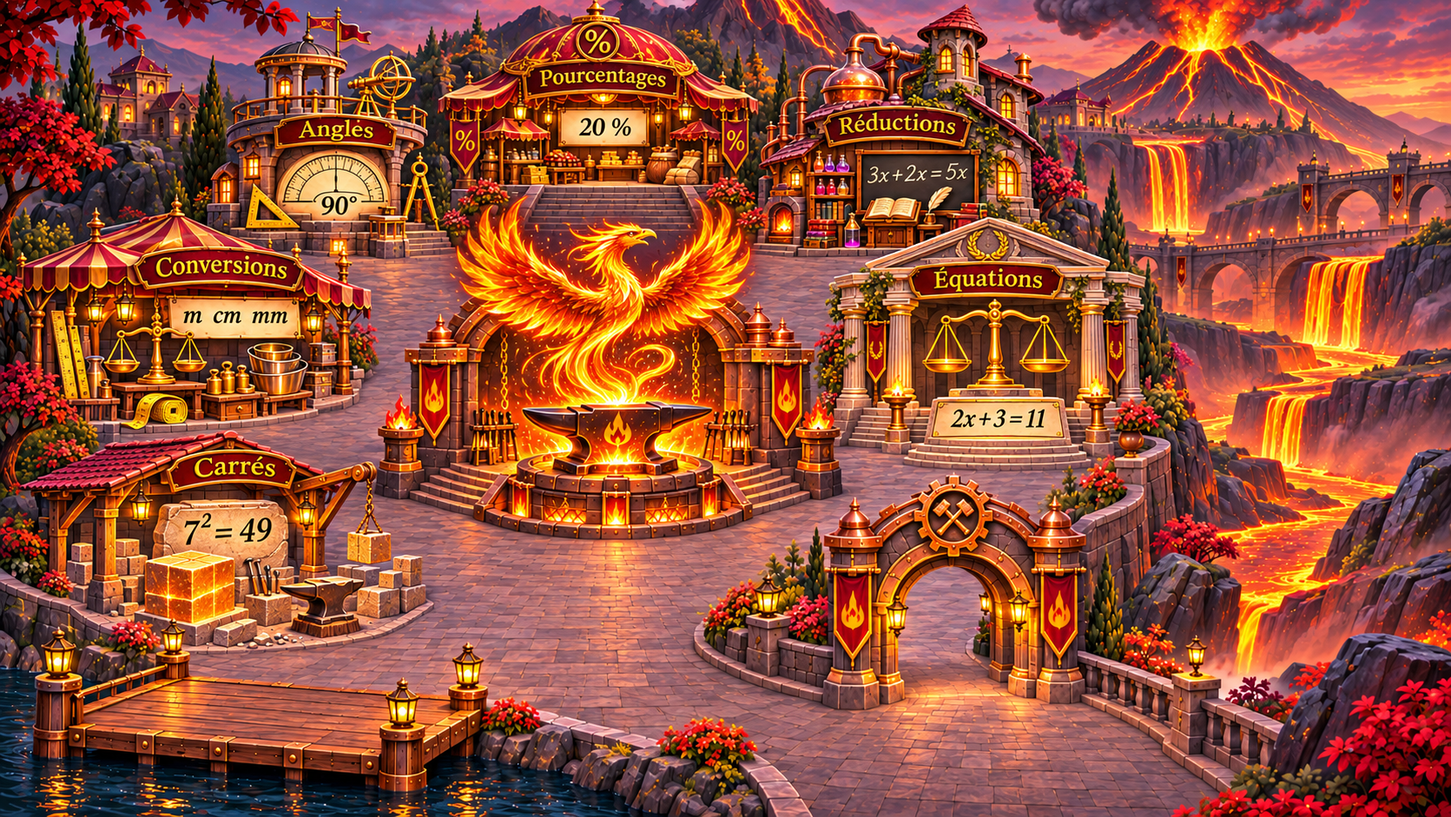
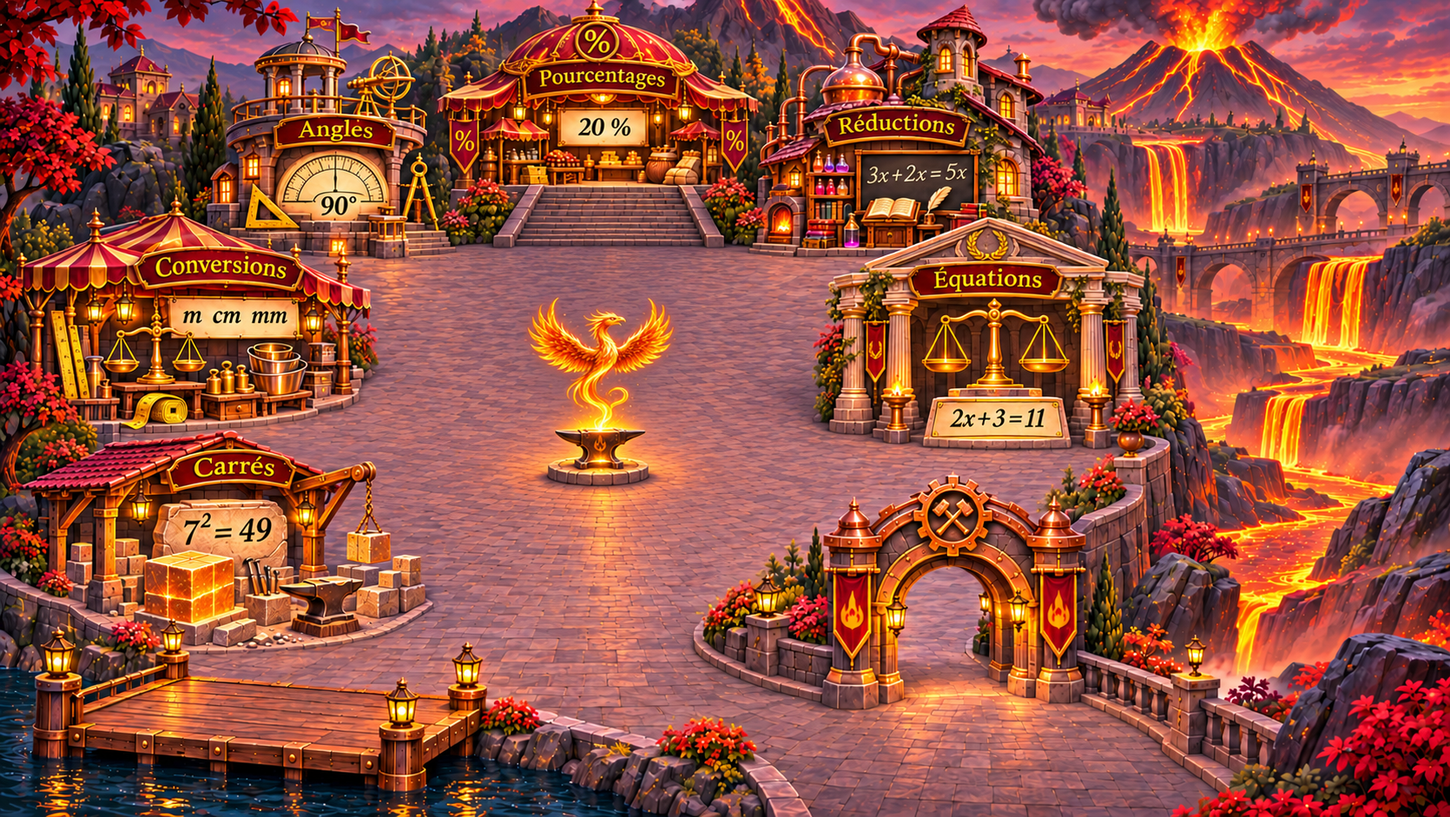
refine(test): smaller phoenix and open central courtyard (v0.3.66-test)

diff --git a/index.html b/index.html
@@ -4,7 +4,7 @@
   <meta charset="utf-8">
   <meta name="viewport" content="width=device-width, initial-scale=1">
   <meta name="theme-color" content="#111d31">
-  <title>Maths Quest — version 0.3.65-test — Bleu royal & or</title>
+  <title>Maths Quest — version 0.3.66-test — Bleu royal & or</title>
   <style>
     :root { font-family:system-ui,sans-serif; background:#101c2d; color:#eee6d4; color-scheme:dark; }
     * { box-sizing:border-box; }
@@ -203,7 +203,7 @@
 
 
     /* ====================================================================
-       v0.3.65-test - Thème retenu : Bleu royal, or et parchemin.
+       v0.3.66-test - Thème retenu : Bleu royal, or et parchemin.
        Toute la logique pédagogique 0.3 reste inchangée.
        ==================================================================== */
     .quiz-screen{
@@ -365,7 +365,7 @@
     @media(prefers-reduced-motion:reduce){.quiz-submit{transition:none}}
 
 
-    /* v0.3.65-test — Cartouche de défi à droite du héros. */
+    /* v0.3.66-test — Cartouche de défi à droite du héros. */
     .arrival{left:50.4%;top:27.7%;width:24.5%;max-width:360px;min-width:0;gap:clamp(3px,.5vw,8px);
       padding:clamp(5px,.72vw,12px);box-shadow:0 9px 23px #071c3bc7;}
     .arrival .arrival-heading{font-size:clamp(10px,.94vw,16px)}
@@ -373,7 +373,7 @@
     .arrival small{font-size:clamp(9px,.8vw,13px)}
     .arrival .arrival-action{font-size:clamp(10px,.95vw,16px);padding:clamp(6px,.65vw,12px)}
 
-    /* v0.3.65-test — Camp d'entrainement de face comme arrière-plan des exercices.
+    /* v0.3.66-test — Camp d'entrainement de face comme arrière-plan des exercices.
        L'interface d'Activités mentales reste indépendante de ce fond illustré. */
     .quiz-screen{
       background-image:linear-gradient(90deg,rgba(7,27,57,.47),rgba(10,34,63,.31) 50%,rgba(7,27,57,.47)),
@@ -417,7 +417,7 @@
 
 
     /* ================================================================
-       v0.3.65-test — adaptation à la HAUTEUR et à la LARGEUR de l'écran.
+       v0.3.66-test — adaptation à la HAUTEUR et à la LARGEUR de l'écran.
        Une question doit tenir dans la zone visible, bouton Valider inclus.
        Le bilan reste défilable car il contient les dix réponses.
        ================================================================ */
@@ -530,7 +530,7 @@
     }
 
 
-    /* v0.3.65-test — Écran de transition « Tables de multiplication ».
+    /* v0.3.66-test — Écran de transition « Tables de multiplication ».
        L'illustration est un décor, les zones actives sont de vrais boutons HTML. */
     .trial-transition[hidden] {display:none!important}
     .trial-transition {position:fixed;inset:0;z-index:55;display:flex;flex-direction:column;
@@ -575,7 +575,7 @@
     @media(min-width:701px){.oath{max-height:59%;overflow:auto}}
     .relative-intro{display:none!important}
     .transition-recap{left:68.1%;top:10.8%;width:20.8%;height:4%;background:#0b2541;font-size:clamp(8px,1.05vw,17px);border:0;box-shadow:none}
-    /* v0.3.65-test — Bilan ajusté à l'écran ; seul le détail des réponses défile. */
+    /* v0.3.66-test — Bilan ajusté à l'écran ; seul le détail des réponses défile. */
     .quiz-content:has(.quiz-results:not([hidden])) {
       display:flex;overflow:hidden;width:min(760px,calc(100% - 24px));
     }
@@ -901,7 +901,7 @@ body:has(dialog[open]) #appFullscreen{visibility:hidden}
 @media(max-width:640px){#appFullscreen{right:8px;bottom:8px;width:34px;height:34px;padding:7px}.brand-version{font-size:clamp(6px,1.5vw,10px)}}
 
 
-/* v0.3.65-test — Progression retirée des images sources, sans plaque de masquage. */
+/* v0.3.66-test — Progression retirée des images sources, sans plaque de masquage. */
 #scene,.transition-viewport{container-type:inline-size}
 .court-quests .court-quest-row{display:none!important}
 .court-quests .trial-groups{display:grid;height:68%;grid-auto-rows:minmax(0,1fr);grid-template-rows:none}
@@ -1109,7 +1109,7 @@ body:has(dialog[open]) #appFullscreen{visibility:hidden}
 <body>
 <svg width="0" height="0" aria-hidden="true" style="position:absolute"><defs><clipPath id="worldHeaderPanels" clipPathUnits="objectBoundingBox"><rect width=".33" height=".15"/><rect x=".39" width=".225" height=".15"/></clipPath></defs></svg>
   <main class="scene-area" id="sceneArea">
-    <div class="scene-viewport" id="scene"><span class="brand-version">v0.3.65-test</span>
+    <div class="scene-viewport" id="scene"><span class="brand-version">v0.3.66-test</span>
       <img class="scene-image" src="assets/carte-sans-progression.png"
         alt="L’Académie des Nombres, trois épreuves reliées par des flèches lumineuses, et l'entrée au premier plan." draggable="false">
       <svg class="route-layer" viewBox="0 0 1660 947" preserveAspectRatio="none" aria-hidden="true" focusable="false">
@@ -1200,7 +1200,7 @@ body:has(dialog[open]) #appFullscreen{visibility:hidden}
           draggable="false">
         <div class="quest-progress transition-progress" role="progressbar" aria-label="Défis validés" aria-valuemin="0" aria-valuemax="3" aria-valuenow="0"><span class="quest-progress-fill"></span></div>
         <span class="transition-recap" id="transitionRecap" aria-live="polite">1 / 3 défis validés ✓</span>
-        <span class="transition-version">Maths Quest · v0.3.65-test</span>
+        <span class="transition-version">Maths Quest · v0.3.66-test</span>
         <aside class="level-one-quests" aria-label="Quêtes du niveau 1"><h2>Quêtes du niveau</h2><div class="trial-groups"><div class="trial-group"><b>1</b><div><span id="transitionQuestLabel0">Calculs entiers</span><strong id="transitionQuestCount0"></strong></div><span id="transitionQuestDone0" class="court-quest-check" aria-label="Groupe en cours">✓</span></div><div class="trial-group"><b>2</b><div><span id="transitionQuestLabel1">Fractions</span><strong id="transitionQuestCount1"></strong></div><span id="transitionQuestDone1" class="court-quest-check" aria-label="Groupe en cours">✓</span></div></div><p>⭐ Obtiens au moins <strong>80 %</strong> de bonnes réponses pour avancer au niveau 2.</p></aside><div class="transition-panel-title">À toi de jouer !</div><div class="transition-choice-buttons"><button id="transitionStart" class="transition-hit transition-start" type="button"
           aria-label="Commencer le défi : Tables de multiplication" title="Commencer le défi"></button>
           <button id="skipCompletedTrial" class="skip-completed" type="button" hidden>Passer</button></div>
@@ -1234,7 +1234,7 @@ body:has(dialog[open]) #appFullscreen{visibility:hidden}
         <span class="quiz-logo" aria-hidden="true"><svg viewBox="0 0 64 68" width="45" height="48" role="presentation"><path d="M32 3 57 12 55 39Q47 55 32 64 17 55 9 39L7 12Z" fill="#173d79" stroke="#f8d38c" stroke-width="3"/><path d="M32 22Q23 14 15 20V43Q25 38 32 45Q39 38 49 43V20Q40 14 32 22Z" fill="#fff3cd" stroke="#d7b36a" stroke-width="2"/><path d="M32 22V45" fill="none" stroke="#aa8246" stroke-width="2"/><path d="M18 25Q25 23 29 27M35 27Q41 23 46 25M18 31Q24 29 29 33M35 33Q41 29 46 31" fill="none" stroke="#a68a5c" stroke-width="1.5"/></svg></span>
         <span><strong>Maths Quest</strong><small>L'Académie des Nombres · Niveau 1</small></span>
       </div>
-      <span class="quiz-stage-label">⚜ Les bases de l'Académie <small>v0.3.65-test</small></span>
+      <span class="quiz-stage-label">⚜ Les bases de l'Académie <small>v0.3.66-test</small></span>
     </header>
     <div class="quiz-content">
       <div id="quizQuestions" class="quiz-questions">
@@ -1298,9 +1298,9 @@ body:has(dialog[open]) #appFullscreen{visibility:hidden}
   </section>
 
 <section id="courtScreen" class="court-screen" hidden aria-label="Niveau 2, La Cour des Savoirs">
-<div id="courtArea" class="court-area"><div id="courtMap" class="court-map"><span class="brand-version">v0.3.65-test</span><img id="courtBackground" class="court-background" src="assets/cour-des-savoirs-sans-progression.png" alt="La Cour des Savoirs : six ateliers autour de la fontaine au cheval." draggable="false"><svg class="court-routes" viewBox="0 0 1616 970" aria-hidden="true"><defs><filter id="courtGlow"><feGaussianBlur stdDeviation="5"/></filter><marker id="courtArrow" viewBox="0 0 24 24" refX="19" refY="12" markerWidth="4.5" markerHeight="4.5" orient="auto"><path d="M2 2 22 12 2 22 7 12Z" fill="#fff7a8" stroke="#ffd52e" stroke-width="2"/></marker></defs><path d="M686.94,834.13 L677,808 L647,757 L615,724 L575,712 L540,724 L513.27,747.39" fill="none" stroke="#ffcf00" stroke-width="16" opacity=".8" filter="url(#courtGlow)"/><path d="M686.94,834.13 L677,808 L647,757 L615,724 L575,712 L540,724 L513.27,747.39" fill="none" stroke="#ffd52a" stroke-width="11"/><path d="M686.94,834.13 L677,808 L647,757 L615,724 L575,712 L540,724 L513.27,747.39" fill="none" stroke="#fff7a8" stroke-width="6"/><path d="M503.67,757.5 L482,785 L438,815 L383,825 L327,822 L303.9,813.34" fill="none" stroke="#ffcf00" stroke-width="16" opacity=".8" filter="url(#courtGlow)"/><path d="M503.67,757.5 L482,785 L438,815 L383,825 L327,822 L303.9,813.34" fill="none" stroke="#ffd52a" stroke-width="11"/><path d="M503.67,757.5 L482,785 L438,815 L383,825 L327,822 L303.9,813.34" fill="none" stroke="#fff7a8" stroke-width="6" marker-end="url(#courtArrow)"/><path d="M295.81,767.81 L322,745 L332,716 L330.44,690.99" fill="none" stroke="#ffcf00" stroke-width="16" opacity=".8" filter="url(#courtGlow)"/><path d="M295.81,767.81 L322,745 L332,716 L330.44,690.99" fill="none" stroke="#ffd52a" stroke-width="11"/><path d="M295.81,767.81 L322,745 L332,716 L330.44,690.99" fill="none" stroke="#fff7a8" stroke-width="6"/><path d="M330.6,677.03 L333,649 L352,609 L361.2,586.33" fill="none" stroke="#ffcf00" stroke-width="16" opacity=".8" filter="url(#courtGlow)"/><path d="M330.6,677.03 L333,649 L352,609 L361.2,586.33" fill="none" stroke="#ffd52a" stroke-width="11"/><path d="M330.6,677.03 L333,649 L352,609 L361.2,586.33" fill="none" stroke="#fff7a8" stroke-width="6" marker-end="url(#courtArrow)"/><path d="M420.83,514.76 L435,506 L477.4,474.2" fill="none" stroke="#ffcf00" stroke-width="16" opacity=".8" filter="url(#courtGlow)"/><path d="M420.83,514.76 L435,506 L477.4,474.2" fill="none" stroke="#ffd52a" stroke-width="11"/><path d="M420.83,514.76 L435,506 L477.4,474.2" fill="none" stroke="#fff7a8" stroke-width="6"/><path d="M487.89,464.99 L519.61,432.42" fill="none" stroke="#ffcf00" stroke-width="16" opacity=".8" filter="url(#courtGlow)"/><path d="M487.89,464.99 L519.61,432.42" fill="none" stroke="#ffd52a" stroke-width="11"/><path d="M487.89,464.99 L519.61,432.42" fill="none" stroke="#fff7a8" stroke-width="6" marker-end="url(#courtArrow)"/><path d="M595.9,381.8 L618,377 L676.14,365.37" fill="none" stroke="#ffcf00" stroke-width="16" opacity=".8" filter="url(#courtGlow)"/><path d="M595.9,381.8 L618,377 L676.14,365.37" fill="none" stroke="#ffd52a" stroke-width="11"/><path d="M595.9,381.8 L618,377 L676.14,365.37" fill="none" stroke="#fff7a8" stroke-width="6"/><path d="M689.86,365.37 L733,374 L739.15,375.34" fill="none" stroke="#ffcf00" stroke-width="16" opacity=".8" filter="url(#courtGlow)"/><path d="M689.86,365.37 L733,374 L739.15,375.34" fill="none" stroke="#ffd52a" stroke-width="11"/><path d="M689.86,365.37 L733,374 L739.15,375.34" fill="none" stroke="#fff7a8" stroke-width="6" marker-end="url(#courtArrow)"/><path d="M821.47,420.4 L824,423 L880.6,448.16" fill="none" stroke="#ffcf00" stroke-width="16" opacity=".8" filter="url(#courtGlow)"/><path d="M821.47,420.4 L824,423 L880.6,448.16" fill="none" stroke="#ffd52a" stroke-width="11"/><path d="M821.47,420.4 L824,423 L880.6,448.16" fill="none" stroke="#fff7a8" stroke-width="6"/><path d="M893.69,453.06 L965,475 L997.75,483.89" fill="none" stroke="#ffcf00" stroke-width="16" opacity=".8" filter="url(#courtGlow)"/><path d="M893.69,453.06 L965,475 L997.75,483.89" fill="none" stroke="#ffd52a" stroke-width="11"/><path d="M893.69,453.06 L965,475 L997.75,483.89" fill="none" stroke="#fff7a8" stroke-width="6" marker-end="url(#courtArrow)"/><path d="M1008.99,527.57 L1000,535 L952,577 L918,630 L910.09,680.09" fill="none" stroke="#ffcf00" stroke-width="16" opacity=".8" filter="url(#courtGlow)"/><path d="M1008.99,527.57 L1000,535 L952,577 L918,630 L910.09,680.09" fill="none" stroke="#ffd52a" stroke-width="11"/><path d="M1008.99,527.57 L1000,535 L952,577 L918,630 L910.09,680.09" fill="none" stroke="#fff7a8" stroke-width="6"/><path d="M914.59,691.22 L962,727 L1044,756 L1105.15,769.34" fill="none" stroke="#ffcf00" stroke-width="16" opacity=".8" filter="url(#courtGlow)"/><path d="M914.59,691.22 L962,727 L1044,756 L1105.15,769.34" fill="none" stroke="#ffd52a" stroke-width="11"/><path d="M914.59,691.22 L962,727 L1044,756 L1105.15,769.34" fill="none" stroke="#fff7a8" stroke-width="6" marker-end="url(#courtArrow)"/><path d="M1193.23,807.66 L1215,823 L1269.31,861.92" fill="none" stroke="#ffcf00" stroke-width="16" opacity=".8" filter="url(#courtGlow)"/><path d="M1193.23,807.66 L1215,823 L1269.31,861.92" fill="none" stroke="#ffd52a" stroke-width="11"/><path d="M1193.23,807.66 L1215,823 L1269.31,861.92" fill="none" stroke="#fff7a8" stroke-width="6"/><path d="M1281.14,869.36 L1339,901 L1383.89,909.6" fill="none" stroke="#ffcf00" stroke-width="16" opacity=".8" filter="url(#courtGlow)"/><path d="M1281.14,869.36 L1339,901 L1383.89,909.6" fill="none" stroke="#ffd52a" stroke-width="11"/><path d="M1281.14,869.36 L1339,901 L1383.89,909.6" fill="none" stroke="#fff7a8" stroke-width="6" marker-end="url(#courtArrow)"/></svg><div class="court-progress-cover"><div id="courtProgress" class="court-progress" role="progressbar" aria-label="Défis validés du niveau 2" aria-valuemin="0" aria-valuemax="6" aria-valuenow="0"><span id="courtProgressFill"></span></div><span id="courtCount">0 / 6 défis validés</span></div><span id="courtDone0" class="court-done" style="top:27%" hidden aria-label="Défi 1 validé">✓</span><span id="courtDone1" class="court-done" style="top:33.3%" hidden aria-label="Défi 2 validé">✓</span><span id="courtDone2" class="court-done" style="top:39.8%" hidden aria-label="Défi 3 validé">✓</span><span id="courtDone3" class="court-done" style="top:46.1%" hidden aria-label="Défi 4 validé">✓</span><span id="courtDone4" class="court-done" style="top:52.36%" hidden aria-label="Défi 5 validé">✓</span><span id="courtDone5" class="court-done" style="top:58.42%" hidden aria-label="Défi 6 validé">✓</span><span id="observatoryGroup0" class="observatory-group-count" style="top:30.6%" hidden>0 / 5</span><span id="observatoryGroupDone0" class="observatory-group-done" style="top:28.7%" hidden>✓</span><span id="observatoryGroup1" class="observatory-group-count" style="top:43.4%" hidden>0 / 2</span><span id="observatoryGroupDone1" class="observatory-group-done" style="top:39.0%" hidden>✓</span><span id="observatoryGroup2" class="observatory-group-count" style="top:54.1%" hidden>0 / 6</span><span id="observatoryGroupDone2" class="observatory-group-done" style="top:50.8%" hidden>✓</span><aside class="level-one-quests world-map-quests" aria-label="Quêtes du niveau"><h2>Quêtes du niveau</h2><div class="trial-groups"><div class="trial-group"><b>1</b><div><span id="worldMapGroupLabel0">Mesures & proportionnalité</span><strong id="worldMapGroupCount0"></strong></div><span id="worldMapGroupDone0" class="court-quest-check" aria-label="Groupe en cours">✓</span></div><div class="trial-group"><b>2</b><div><span id="worldMapGroupLabel1">Statistiques & probabilités</span><strong id="worldMapGroupCount1"></strong></div><span id="worldMapGroupDone1" class="court-quest-check" aria-label="Groupe en cours">✓</span></div><div class="trial-group"><b>3</b><div><span id="worldMapGroupLabel2">Calcul & algèbre</span><strong id="worldMapGroupCount2"></strong></div><span id="worldMapGroupDone2" class="court-quest-check" aria-label="Groupe en cours">✓</span></div><div class="trial-group"><b>4</b><div><span id="worldMapGroupLabel3"></span><strong id="worldMapGroupCount3"></strong></div><span id="worldMapGroupDone3" class="court-quest-check" aria-label="Groupe en cours">✓</span></div></div><p>⭐ Obtiens au moins <strong>80 %</strong> de bonnes réponses pour valider chaque épreuve.</p></aside><div id="harbourBoat" class="harbour-boat" hidden aria-label="Le bateau pour la Forge des Nombres"><div class="harbour-vessel"><img class="harbour-boat-art" src="assets/barque-observatoire.png" alt="Barque royale bleue et or amarrée au quai" draggable="false"><img id="harbourPassenger" class="harbour-passenger" hidden alt="Le héros à bord du bateau" draggable="false"></div></div><img id="courtHero" class="court-hero" alt="Le héros se déplace vers les épreuves." draggable="false"><img id="courtDepthBoard" class="court-depth-board" alt="" aria-hidden="true"></div></div>
+<div id="courtArea" class="court-area"><div id="courtMap" class="court-map"><span class="brand-version">v0.3.66-test</span><img id="courtBackground" class="court-background" src="assets/cour-des-savoirs-sans-progression.png" alt="La Cour des Savoirs : six ateliers autour de la fontaine au cheval." draggable="false"><svg class="court-routes" viewBox="0 0 1616 970" aria-hidden="true"><defs><filter id="courtGlow"><feGaussianBlur stdDeviation="5"/></filter><marker id="courtArrow" viewBox="0 0 24 24" refX="19" refY="12" markerWidth="4.5" markerHeight="4.5" orient="auto"><path d="M2 2 22 12 2 22 7 12Z" fill="#fff7a8" stroke="#ffd52e" stroke-width="2"/></marker></defs><path d="M686.94,834.13 L677,808 L647,757 L615,724 L575,712 L540,724 L513.27,747.39" fill="none" stroke="#ffcf00" stroke-width="16" opacity=".8" filter="url(#courtGlow)"/><path d="M686.94,834.13 L677,808 L647,757 L615,724 L575,712 L540,724 L513.27,747.39" fill="none" stroke="#ffd52a" stroke-width="11"/><path d="M686.94,834.13 L677,808 L647,757 L615,724 L575,712 L540,724 L513.27,747.39" fill="none" stroke="#fff7a8" stroke-width="6"/><path d="M503.67,757.5 L482,785 L438,815 L383,825 L327,822 L303.9,813.34" fill="none" stroke="#ffcf00" stroke-width="16" opacity=".8" filter="url(#courtGlow)"/><path d="M503.67,757.5 L482,785 L438,815 L383,825 L327,822 L303.9,813.34" fill="none" stroke="#ffd52a" stroke-width="11"/><path d="M503.67,757.5 L482,785 L438,815 L383,825 L327,822 L303.9,813.34" fill="none" stroke="#fff7a8" stroke-width="6" marker-end="url(#courtArrow)"/><path d="M295.81,767.81 L322,745 L332,716 L330.44,690.99" fill="none" stroke="#ffcf00" stroke-width="16" opacity=".8" filter="url(#courtGlow)"/><path d="M295.81,767.81 L322,745 L332,716 L330.44,690.99" fill="none" stroke="#ffd52a" stroke-width="11"/><path d="M295.81,767.81 L322,745 L332,716 L330.44,690.99" fill="none" stroke="#fff7a8" stroke-width="6"/><path d="M330.6,677.03 L333,649 L352,609 L361.2,586.33" fill="none" stroke="#ffcf00" stroke-width="16" opacity=".8" filter="url(#courtGlow)"/><path d="M330.6,677.03 L333,649 L352,609 L361.2,586.33" fill="none" stroke="#ffd52a" stroke-width="11"/><path d="M330.6,677.03 L333,649 L352,609 L361.2,586.33" fill="none" stroke="#fff7a8" stroke-width="6" marker-end="url(#courtArrow)"/><path d="M420.83,514.76 L435,506 L477.4,474.2" fill="none" stroke="#ffcf00" stroke-width="16" opacity=".8" filter="url(#courtGlow)"/><path d="M420.83,514.76 L435,506 L477.4,474.2" fill="none" stroke="#ffd52a" stroke-width="11"/><path d="M420.83,514.76 L435,506 L477.4,474.2" fill="none" stroke="#fff7a8" stroke-width="6"/><path d="M487.89,464.99 L519.61,432.42" fill="none" stroke="#ffcf00" stroke-width="16" opacity=".8" filter="url(#courtGlow)"/><path d="M487.89,464.99 L519.61,432.42" fill="none" stroke="#ffd52a" stroke-width="11"/><path d="M487.89,464.99 L519.61,432.42" fill="none" stroke="#fff7a8" stroke-width="6" marker-end="url(#courtArrow)"/><path d="M595.9,381.8 L618,377 L676.14,365.37" fill="none" stroke="#ffcf00" stroke-width="16" opacity=".8" filter="url(#courtGlow)"/><path d="M595.9,381.8 L618,377 L676.14,365.37" fill="none" stroke="#ffd52a" stroke-width="11"/><path d="M595.9,381.8 L618,377 L676.14,365.37" fill="none" stroke="#fff7a8" stroke-width="6"/><path d="M689.86,365.37 L733,374 L739.15,375.34" fill="none" stroke="#ffcf00" stroke-width="16" opacity=".8" filter="url(#courtGlow)"/><path d="M689.86,365.37 L733,374 L739.15,375.34" fill="none" stroke="#ffd52a" stroke-width="11"/><path d="M689.86,365.37 L733,374 L739.15,375.34" fill="none" stroke="#fff7a8" stroke-width="6" marker-end="url(#courtArrow)"/><path d="M821.47,420.4 L824,423 L880.6,448.16" fill="none" stroke="#ffcf00" stroke-width="16" opacity=".8" filter="url(#courtGlow)"/><path d="M821.47,420.4 L824,423 L880.6,448.16" fill="none" stroke="#ffd52a" stroke-width="11"/><path d="M821.47,420.4 L824,423 L880.6,448.16" fill="none" stroke="#fff7a8" stroke-width="6"/><path d="M893.69,453.06 L965,475 L997.75,483.89" fill="none" stroke="#ffcf00" stroke-width="16" opacity=".8" filter="url(#courtGlow)"/><path d="M893.69,453.06 L965,475 L997.75,483.89" fill="none" stroke="#ffd52a" stroke-width="11"/><path d="M893.69,453.06 L965,475 L997.75,483.89" fill="none" stroke="#fff7a8" stroke-width="6" marker-end="url(#courtArrow)"/><path d="M1008.99,527.57 L1000,535 L952,577 L918,630 L910.09,680.09" fill="none" stroke="#ffcf00" stroke-width="16" opacity=".8" filter="url(#courtGlow)"/><path d="M1008.99,527.57 L1000,535 L952,577 L918,630 L910.09,680.09" fill="none" stroke="#ffd52a" stroke-width="11"/><path d="M1008.99,527.57 L1000,535 L952,577 L918,630 L910.09,680.09" fill="none" stroke="#fff7a8" stroke-width="6"/><path d="M914.59,691.22 L962,727 L1044,756 L1105.15,769.34" fill="none" stroke="#ffcf00" stroke-width="16" opacity=".8" filter="url(#courtGlow)"/><path d="M914.59,691.22 L962,727 L1044,756 L1105.15,769.34" fill="none" stroke="#ffd52a" stroke-width="11"/><path d="M914.59,691.22 L962,727 L1044,756 L1105.15,769.34" fill="none" stroke="#fff7a8" stroke-width="6" marker-end="url(#courtArrow)"/><path d="M1193.23,807.66 L1215,823 L1269.31,861.92" fill="none" stroke="#ffcf00" stroke-width="16" opacity=".8" filter="url(#courtGlow)"/><path d="M1193.23,807.66 L1215,823 L1269.31,861.92" fill="none" stroke="#ffd52a" stroke-width="11"/><path d="M1193.23,807.66 L1215,823 L1269.31,861.92" fill="none" stroke="#fff7a8" stroke-width="6"/><path d="M1281.14,869.36 L1339,901 L1383.89,909.6" fill="none" stroke="#ffcf00" stroke-width="16" opacity=".8" filter="url(#courtGlow)"/><path d="M1281.14,869.36 L1339,901 L1383.89,909.6" fill="none" stroke="#ffd52a" stroke-width="11"/><path d="M1281.14,869.36 L1339,901 L1383.89,909.6" fill="none" stroke="#fff7a8" stroke-width="6" marker-end="url(#courtArrow)"/></svg><div class="court-progress-cover"><div id="courtProgress" class="court-progress" role="progressbar" aria-label="Défis validés du niveau 2" aria-valuemin="0" aria-valuemax="6" aria-valuenow="0"><span id="courtProgressFill"></span></div><span id="courtCount">0 / 6 défis validés</span></div><span id="courtDone0" class="court-done" style="top:27%" hidden aria-label="Défi 1 validé">✓</span><span id="courtDone1" class="court-done" style="top:33.3%" hidden aria-label="Défi 2 validé">✓</span><span id="courtDone2" class="court-done" style="top:39.8%" hidden aria-label="Défi 3 validé">✓</span><span id="courtDone3" class="court-done" style="top:46.1%" hidden aria-label="Défi 4 validé">✓</span><span id="courtDone4" class="court-done" style="top:52.36%" hidden aria-label="Défi 5 validé">✓</span><span id="courtDone5" class="court-done" style="top:58.42%" hidden aria-label="Défi 6 validé">✓</span><span id="observatoryGroup0" class="observatory-group-count" style="top:30.6%" hidden>0 / 5</span><span id="observatoryGroupDone0" class="observatory-group-done" style="top:28.7%" hidden>✓</span><span id="observatoryGroup1" class="observatory-group-count" style="top:43.4%" hidden>0 / 2</span><span id="observatoryGroupDone1" class="observatory-group-done" style="top:39.0%" hidden>✓</span><span id="observatoryGroup2" class="observatory-group-count" style="top:54.1%" hidden>0 / 6</span><span id="observatoryGroupDone2" class="observatory-group-done" style="top:50.8%" hidden>✓</span><aside class="level-one-quests world-map-quests" aria-label="Quêtes du niveau"><h2>Quêtes du niveau</h2><div class="trial-groups"><div class="trial-group"><b>1</b><div><span id="worldMapGroupLabel0">Mesures & proportionnalité</span><strong id="worldMapGroupCount0"></strong></div><span id="worldMapGroupDone0" class="court-quest-check" aria-label="Groupe en cours">✓</span></div><div class="trial-group"><b>2</b><div><span id="worldMapGroupLabel1">Statistiques & probabilités</span><strong id="worldMapGroupCount1"></strong></div><span id="worldMapGroupDone1" class="court-quest-check" aria-label="Groupe en cours">✓</span></div><div class="trial-group"><b>3</b><div><span id="worldMapGroupLabel2">Calcul & algèbre</span><strong id="worldMapGroupCount2"></strong></div><span id="worldMapGroupDone2" class="court-quest-check" aria-label="Groupe en cours">✓</span></div><div class="trial-group"><b>4</b><div><span id="worldMapGroupLabel3"></span><strong id="worldMapGroupCount3"></strong></div><span id="worldMapGroupDone3" class="court-quest-check" aria-label="Groupe en cours">✓</span></div></div><p>⭐ Obtiens au moins <strong>80 %</strong> de bonnes réponses pour valider chaque épreuve.</p></aside><div id="harbourBoat" class="harbour-boat" hidden aria-label="Le bateau pour la Forge des Nombres"><div class="harbour-vessel"><img class="harbour-boat-art" src="assets/barque-observatoire.png" alt="Barque royale bleue et or amarrée au quai" draggable="false"><img id="harbourPassenger" class="harbour-passenger" hidden alt="Le héros à bord du bateau" draggable="false"></div></div><img id="courtHero" class="court-hero" alt="Le héros se déplace vers les épreuves." draggable="false"><img id="courtDepthBoard" class="court-depth-board" alt="" aria-hidden="true"></div></div>
 <footer class="court-controls"><p id="courtMessage" role="status" aria-live="polite"></p><div class="court-buttons"><button id="courtAction" type="button">⚔ Commencer le parcours</button><button id="courtFullscreen" type="button">⛶ Plein écran</button><button id="courtZoom" type="button">⌕ Agrandir la carte</button><button id="boatSkip" type="button" hidden>Passer la traversée →</button><button id="courtReset" type="button">↻ Retour à l’entrée</button><button id="skipLevelTwo" type="button">Passer au niveau 3 →</button><button id="skipLevelThree" type="button" hidden>Passer au niveau 4 →</button><button id="courtBack" type="button">← Niveau 1</button></div></footer></section>
-<section id="courtTrial" class="court-screen court-trial" hidden aria-label="Entrée de l’épreuve du niveau 2"><div id="courtTrialArea" class="court-area"><div id="courtTrialScene" class="court-trial-scene"><span class="brand-version">v0.3.65-test</span><img id="courtTrialHeader" class="court-ui-header" alt="" aria-hidden="true"><div class="court-world-title"><span id="courtWorldTitle">Niveau 2</span><small id="courtWorldSubtitle">La Cour des Savoirs</small></div><div class="court-trial-progress"><div class="court-progress" role="progressbar" id="courtTrialProgress" aria-label="Défis validés du niveau 2" aria-valuemin="0" aria-valuemax="6" aria-valuenow="0"><span id="courtTrialProgressFill"></span></div><span id="courtTrialCount" class="court-trial-count"></span></div><aside id="courtTrialQuests" class="court-quests" aria-label="Quêtes du niveau"><h2>Quêtes du niveau</h2><div class="trial-groups"><div class="trial-group"><b>1</b><div><span id="trialGroupLabel0">Mesures & proportionnalité</span><strong id="trialGroupCount0"></strong></div><span id="trialGroupDone0" class="court-quest-check" aria-label="Groupe en cours">✓</span></div><div class="trial-group"><b>2</b><div><span id="trialGroupLabel1">Statistiques & probabilités</span><strong id="trialGroupCount1"></strong></div><span id="trialGroupDone1" class="court-quest-check" aria-label="Groupe en cours">✓</span></div><div class="trial-group"><b>3</b><div><span id="trialGroupLabel2">Calcul & algèbre</span><strong id="trialGroupCount2"></strong></div><span id="trialGroupDone2" class="court-quest-check" aria-label="Groupe en cours">✓</span></div><div class="trial-group"><b>4</b><div><span id="trialGroupLabel3"></span><strong id="trialGroupCount3"></strong></div><span id="trialGroupDone3" class="court-quest-check" aria-label="Groupe en cours">✓</span></div></div><div id="worldQuestRow0" class="court-quest-row"><b>1</b><span id="worldQuestLabel0">Conversions de longueurs</span><span id="courtTrialDone0" class="court-quest-check" aria-label="Non validé">✓</span></div><div id="worldQuestRow1" class="court-quest-row"><b>2</b><span id="worldQuestLabel1">Tableaux de proportionnalité</span><span id="courtTrialDone1" class="court-quest-check" aria-label="Non validé">✓</span></div><div id="worldQuestRow2" class="court-quest-row"><b>3</b><span id="worldQuestLabel2">Étendue d’une série</span><span id="courtTrialDone2" class="court-quest-check" aria-label="Non validé">✓</span></div><div id="worldQuestRow3" class="court-quest-row"><b>4</b><span id="worldQuestLabel3">Probabilités</span><span id="courtTrialDone3" class="court-quest-check" aria-label="Non validé">✓</span></div><div id="worldQuestRow4" class="court-quest-row"><b>5</b><span id="worldQuestLabel4">Calcul d’expressions</span><span id="courtTrialDone4" class="court-quest-check" aria-label="Non validé">✓</span></div><div id="worldQuestRow5" class="court-quest-row"><b>6</b><span id="worldQuestLabel5">Équations</span><span id="courtTrialDone5" class="court-quest-check" aria-label="Non validé">✓</span></div><div id="worldQuestRow6" class="court-quest-row" hidden><b>7</b><span id="worldQuestLabel6"></span><span id="courtTrialDone6" class="court-quest-check" aria-label="Non validé">✓</span></div><div id="worldQuestRow7" class="court-quest-row" hidden><b>8</b><span id="worldQuestLabel7"></span><span id="courtTrialDone7" class="court-quest-check" aria-label="Non validé">✓</span></div><div id="worldQuestRow8" class="court-quest-row" hidden><b>9</b><span id="worldQuestLabel8"></span><span id="courtTrialDone8" class="court-quest-check" aria-label="Non validé">✓</span></div><div id="worldQuestRow9" class="court-quest-row" hidden><b>10</b><span id="worldQuestLabel9"></span><span id="courtTrialDone9" class="court-quest-check" aria-label="Non validé">✓</span></div><div id="worldQuestRow10" class="court-quest-row" hidden><b>11</b><span id="worldQuestLabel10"></span><span id="courtTrialDone10" class="court-quest-check" aria-label="Non validé">✓</span></div><div id="worldQuestRow11" class="court-quest-row" hidden><b>12</b><span id="worldQuestLabel11"></span><span id="courtTrialDone11" class="court-quest-check" aria-label="Non validé">✓</span></div><div id="worldQuestRow12" class="court-quest-row" hidden><b>13</b><span id="worldQuestLabel12"></span><span id="courtTrialDone12" class="court-quest-check" aria-label="Non validé">✓</span></div><p class="court-goal">⭐ Obtiens au moins<br><strong>80 %</strong> de bonnes réponses<br>pour avancer au niveau <span id="courtGoalLevel">3</span>.</p></aside><img id="courtTrialArt" class="court-trial-art" alt="Vue de face de l’atelier" draggable="false"><div class="court-trial-caption"><span id="courtTrialNumber" class="court-station-number"></span><span id="courtTrialPlace"></span></div><div id="courtTrialRing" hidden aria-hidden="true"></div><img id="courtTrialHero" class="court-trial-hero" alt="Le héros regarde l’atelier." draggable="false"><div class="court-panel"><span id="courtTrialOrder" class="court-order"></span><h1 id="courtTrialTitle"></h1><div class="court-line"></div><p id="courtTrialRule" class="court-rule"></p><p>🎯 10 questions</p><p id="courtTrialTime"></p><p class="court-threshold">⭐ 8 bonnes réponses pour continuer</p><div class="court-line"></div><div class="court-actions"><button id="courtTrialStart" type="button">▶ Commencer le défi</button><button id="courtTrialPass" type="button" hidden>Passer</button></div></div><footer class="court-transition-tools"><button id="courtTrialBack" type="button">← Retour à la carte</button><button id="courtTrialFullscreen" type="button">⛶ Plein écran</button><button id="courtTrialZoom" type="button">⌕ Agrandir la carte</button><button id="courtTrialReplay" type="button">↻ Rejouer le trajet</button><span class="court-version">Maths Quest · v0.3.65-test</span></footer></div></div></section>
+<section id="courtTrial" class="court-screen court-trial" hidden aria-label="Entrée de l’épreuve du niveau 2"><div id="courtTrialArea" class="court-area"><div id="courtTrialScene" class="court-trial-scene"><span class="brand-version">v0.3.66-test</span><img id="courtTrialHeader" class="court-ui-header" alt="" aria-hidden="true"><div class="court-world-title"><span id="courtWorldTitle">Niveau 2</span><small id="courtWorldSubtitle">La Cour des Savoirs</small></div><div class="court-trial-progress"><div class="court-progress" role="progressbar" id="courtTrialProgress" aria-label="Défis validés du niveau 2" aria-valuemin="0" aria-valuemax="6" aria-valuenow="0"><span id="courtTrialProgressFill"></span></div><span id="courtTrialCount" class="court-trial-count"></span></div><aside id="courtTrialQuests" class="court-quests" aria-label="Quêtes du niveau"><h2>Quêtes du niveau</h2><div class="trial-groups"><div class="trial-group"><b>1</b><div><span id="trialGroupLabel0">Mesures & proportionnalité</span><strong id="trialGroupCount0"></strong></div><span id="trialGroupDone0" class="court-quest-check" aria-label="Groupe en cours">✓</span></div><div class="trial-group"><b>2</b><div><span id="trialGroupLabel1">Statistiques & probabilités</span><strong id="trialGroupCount1"></strong></div><span id="trialGroupDone1" class="court-quest-check" aria-label="Groupe en cours">✓</span></div><div class="trial-group"><b>3</b><div><span id="trialGroupLabel2">Calcul & algèbre</span><strong id="trialGroupCount2"></strong></div><span id="trialGroupDone2" class="court-quest-check" aria-label="Groupe en cours">✓</span></div><div class="trial-group"><b>4</b><div><span id="trialGroupLabel3"></span><strong id="trialGroupCount3"></strong></div><span id="trialGroupDone3" class="court-quest-check" aria-label="Groupe en cours">✓</span></div></div><div id="worldQuestRow0" class="court-quest-row"><b>1</b><span id="worldQuestLabel0">Conversions de longueurs</span><span id="courtTrialDone0" class="court-quest-check" aria-label="Non validé">✓</span></div><div id="worldQuestRow1" class="court-quest-row"><b>2</b><span id="worldQuestLabel1">Tableaux de proportionnalité</span><span id="courtTrialDone1" class="court-quest-check" aria-label="Non validé">✓</span></div><div id="worldQuestRow2" class="court-quest-row"><b>3</b><span id="worldQuestLabel2">Étendue d’une série</span><span id="courtTrialDone2" class="court-quest-check" aria-label="Non validé">✓</span></div><div id="worldQuestRow3" class="court-quest-row"><b>4</b><span id="worldQuestLabel3">Probabilités</span><span id="courtTrialDone3" class="court-quest-check" aria-label="Non validé">✓</span></div><div id="worldQuestRow4" class="court-quest-row"><b>5</b><span id="worldQuestLabel4">Calcul d’expressions</span><span id="courtTrialDone4" class="court-quest-check" aria-label="Non validé">✓</span></div><div id="worldQuestRow5" class="court-quest-row"><b>6</b><span id="worldQuestLabel5">Équations</span><span id="courtTrialDone5" class="court-quest-check" aria-label="Non validé">✓</span></div><div id="worldQuestRow6" class="court-quest-row" hidden><b>7</b><span id="worldQuestLabel6"></span><span id="courtTrialDone6" class="court-quest-check" aria-label="Non validé">✓</span></div><div id="worldQuestRow7" class="court-quest-row" hidden><b>8</b><span id="worldQuestLabel7"></span><span id="courtTrialDone7" class="court-quest-check" aria-label="Non validé">✓</span></div><div id="worldQuestRow8" class="court-quest-row" hidden><b>9</b><span id="worldQuestLabel8"></span><span id="courtTrialDone8" class="court-quest-check" aria-label="Non validé">✓</span></div><div id="worldQuestRow9" class="court-quest-row" hidden><b>10</b><span id="worldQuestLabel9"></span><span id="courtTrialDone9" class="court-quest-check" aria-label="Non validé">✓</span></div><div id="worldQuestRow10" class="court-quest-row" hidden><b>11</b><span id="worldQuestLabel10"></span><span id="courtTrialDone10" class="court-quest-check" aria-label="Non validé">✓</span></div><div id="worldQuestRow11" class="court-quest-row" hidden><b>12</b><span id="worldQuestLabel11"></span><span id="courtTrialDone11" class="court-quest-check" aria-label="Non validé">✓</span></div><div id="worldQuestRow12" class="court-quest-row" hidden><b>13</b><span id="worldQuestLabel12"></span><span id="courtTrialDone12" class="court-quest-check" aria-label="Non validé">✓</span></div><p class="court-goal">⭐ Obtiens au moins<br><strong>80 %</strong> de bonnes réponses<br>pour avancer au niveau <span id="courtGoalLevel">3</span>.</p></aside><img id="courtTrialArt" class="court-trial-art" alt="Vue de face de l’atelier" draggable="false"><div class="court-trial-caption"><span id="courtTrialNumber" class="court-station-number"></span><span id="courtTrialPlace"></span></div><div id="courtTrialRing" hidden aria-hidden="true"></div><img id="courtTrialHero" class="court-trial-hero" alt="Le héros regarde l’atelier." draggable="false"><div class="court-panel"><span id="courtTrialOrder" class="court-order"></span><h1 id="courtTrialTitle"></h1><div class="court-line"></div><p id="courtTrialRule" class="court-rule"></p><p>🎯 10 questions</p><p id="courtTrialTime"></p><p class="court-threshold">⭐ 8 bonnes réponses pour continuer</p><div class="court-line"></div><div class="court-actions"><button id="courtTrialStart" type="button">▶ Commencer le défi</button><button id="courtTrialPass" type="button" hidden>Passer</button></div></div><footer class="court-transition-tools"><button id="courtTrialBack" type="button">← Retour à la carte</button><button id="courtTrialFullscreen" type="button">⛶ Plein écran</button><button id="courtTrialZoom" type="button">⌕ Agrandir la carte</button><button id="courtTrialReplay" type="button">↻ Rejouer le trajet</button><span class="court-version">Maths Quest · v0.3.66-test</span></footer></div></div></section>
 <div id="courtComplete" class="court-complete" hidden role="dialog" aria-modal="true" aria-labelledby="courtCompleteTitle"><div class="court-victory-card"><div id="courtVictoryScene" class="court-victory-scene"><img id="courtVictoryBackdrop" class="court-victory-backdrop" alt="La dernière porte de la Cour des Savoirs."><h2 id="courtCompleteTitle" class="court-victory-title">🏆 Niveau 2 terminé !<small>La Cour des Savoirs</small></h2><div class="court-victory-aura" aria-hidden="true"></div><div class="court-victory-walker"><img id="courtVictoryHero" alt="Le héros avance vers la porte puis s’arrête."></div><span class="court-victory-spark" aria-hidden="true" style="--sx:64%;--sy:57%;--delay:0.0s">✦</span><span class="court-victory-spark" aria-hidden="true" style="--sx:70%;--sy:50%;--delay:0.08s">✦</span><span class="court-victory-spark" aria-hidden="true" style="--sx:76%;--sy:45%;--delay:0.16s">✦</span><span class="court-victory-spark" aria-hidden="true" style="--sx:83%;--sy:53%;--delay:0.24s">✦</span><span class="court-victory-spark" aria-hidden="true" style="--sx:91%;--sy:60%;--delay:0.32s">✦</span><span class="court-victory-spark" aria-hidden="true" style="--sx:86%;--sy:72%;--delay:0.4s">✦</span><span class="court-victory-spark" aria-hidden="true" style="--sx:68%;--sy:75%;--delay:0.48s">✦</span><span class="court-victory-spark" aria-hidden="true" style="--sx:78%;--sy:68%;--delay:0.56s">✦</span><span class="court-victory-spark" aria-hidden="true" style="--sx:58%;--sy:65%;--delay:0.64s">✦</span><span class="court-victory-spark" aria-hidden="true" style="--sx:94%;--sy:43%;--delay:0.72s">✦</span><span class="court-victory-spark" aria-hidden="true" style="--sx:55%;--sy:43%;--delay:0.8s">✦</span><span class="court-victory-spark" aria-hidden="true" style="--sx:88%;--sy:36%;--delay:0.88s">✦</span></div><div class="court-victory-footer"><p id="courtVictoryStatus" role="status" aria-live="polite">Six épreuves remportées !</p><p id="courtVictoryNext" class="court-victory-next">La prochaine aventure sera ajoutée au-delà de cette porte.</p><button id="observatoryContinue" type="button">Rejoindre l’Observatoire royal →</button><button id="enterLevelFour" type="button" hidden>Entrer dans la Forge des Nombres — Niveau 4 →</button><button id="courtVictoryReplay" type="button">↻ Revoir l’animation</button><button id="courtCompleteClose" type="button">Revenir à la cour</button></div></div></div>
 <template id="courtArts"><img src="assets/atelier-1.png" alt="Atelier 1"><img src="assets/atelier-2.png" alt="Atelier 2"><img src="assets/atelier-3.png" alt="Atelier 3"><img src="assets/atelier-4.png" alt="Atelier 4"><img src="assets/atelier-5.png" alt="Atelier 5"><img src="assets/atelier-6.png" alt="Atelier 6"></template>
 <aside id="calculatorDrawer" class="calculator-drawer" hidden aria-labelledby="calculatorTitle"><div class="calculator-heading"><h2 id="calculatorTitle">Calculatrice</h2><button id="calculatorClose" type="button" aria-label="Fermer la calculatrice">×</button></div><label class="sr-only" for="calculatorDisplay">Calcul et résultat</label><input id="calculatorDisplay" class="calculator-display" type="text" readonly value="0" aria-describedby="calculatorStatus" autocomplete="off"><div class="calculator-keys"><button id="calculatorKey0" type="button" aria-label="Effacer tout">C</button><button id="calculatorKey1" type="button" aria-label="Effacer le dernier caractère">⌫</button><button id="calculatorKey2" type="button">(</button><button id="calculatorKey3" type="button">)</button><button id="calculatorKey4" type="button">7</button><button id="calculatorKey5" type="button">8</button><button id="calculatorKey6" type="button">9</button><button id="calculatorKey7" type="button" class="calc-operator">÷</button><button id="calculatorKey8" type="button">4</button><button id="calculatorKey9" type="button">5</button><button id="calculatorKey10" type="button">6</button><button id="calculatorKey11" type="button" class="calc-operator">×</button><button id="calculatorKey12" type="button">1</button><button id="calculatorKey13" type="button">2</button><button id="calculatorKey14" type="button">3</button><button id="calculatorKey15" type="button" class="calc-operator">−</button><button id="calculatorKey16" type="button">0</button><button id="calculatorKey17" type="button">,</button><button id="calculatorKey18" type="button" class="calc-equals">=</button><button id="calculatorKey19" type="button" class="calc-operator">+</button></div><button id="calculatorCopy" class="calculator-copy" type="button" disabled>Reporter le résultat</button><p id="calculatorStatus" class="calculator-status" role="status" aria-live="polite"></p><p><span id="calculatorHint">Étendue = maximum − minimum.</span><br>Le temps continue de s’écouler.</p></aside>
@@ -2084,7 +2084,7 @@ function generateRelatives(level){
       questionTime=currentStage>=5?courtModule().time*1000:currentStage===3?30000:10000;questionIndex=0;correct=0;answers=[];totalSpentMs=0;
       const title=stageTitles[currentStage];
       document.querySelector('.quiz-brand small').textContent="L’Académie des Nombres · Niveau "+(currentStage>=19?'4':currentStage>=12?'3':currentStage>=5?'2':'1');
-      document.querySelector('.quiz-stage-label').innerHTML=(currentStage>=19?'⚜ La Forge des Nombres':currentStage>=12?'⚜ L’Observatoire royal':currentStage>=5?'⚜ La Cour des Savoirs':'⚜ Les bases de l’Académie')+' <small>v0.3.65-test</small>';
+      document.querySelector('.quiz-stage-label').innerHTML=(currentStage>=19?'⚜ La Forge des Nombres':currentStage>=12?'⚜ L’Observatoire royal':currentStage>=5?'⚜ La Cour des Savoirs':'⚜ Les bases de l’Académie')+' <small>v0.3.66-test</small>';
       quizScreen.classList.toggle('fractions-quiz',currentStage===3);quizScreen.classList.toggle('level2-quiz',currentStage>=5);
       document.querySelector('.quiz-tip').textContent=currentStage===3?'Trouve le numérateur manquant · 8 bonnes réponses pour rejoindre le pont.':'⚜ Obtiens au moins 8 bonnes réponses pour ouvrir la voie suivante.';
       document.querySelector('.quiz-title-wrap strong').textContent=title;
@@ -2699,7 +2699,7 @@ eq_niv7:{group:'Équations',color:'#2563eb',icon:'=',title:'Équations — Nivea
     const worldFour={...worldThree,modules:order3B,
       places:order3B.map(key=>worldThree.places[worldThree.modules.indexOf(key)]),
       arts:order3B.map(key=>worldThree.arts[worldThree.modules.indexOf(key)]),
-      background:'assets/forge-niveau4.png?v=0365',points:forgeStops,routes:forgeRoutes,
+      background:'assets/forge-niveau4.png?v=0366',points:forgeStops,routes:forgeRoutes,
       routeMarkup:'<path d="M100 900 L120 915 L256 860 L240 845 Z" fill="#ad763d" stroke="#edc077" stroke-width="3"/>'+observatoryRouteMarkup(forgeRoutes,forgeStops).replace(/<g id="harbourGangplank">.*?<\/g>/,'')
     };
     [...order3A,...order3B].forEach((key,i)=>{
